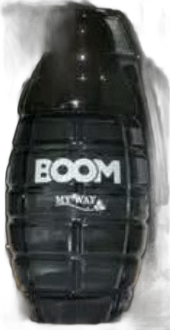
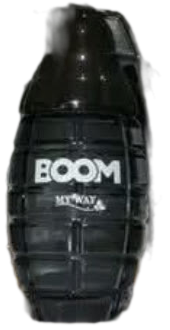
Motion: clean Secret Garden and BOOM cutouts, remove date stamps from Vera photo
Adds a Secret Garden cutout without the Tender bottle in front of it,
an edge-cleaned BOOM, and removes the batch/date prints from the Vera
and Cleopatra labels. Facts sheet: men's labels only where the flyers
support them, Tender kept gender-neutral, account disclaimer for the
end card.

Claude-Session: https://claude.ai/code/session_01D8gAQEBp7D9VgwXuuqKHyz

diff --git a/motion/FACTS.md b/motion/FACTS.md
@@ -33,6 +33,9 @@ price-free cutouts and photos listed below instead.
    `Cleopatra` hair styling cream (`كليوباترا للتطويل`).
    Flyer caption for Vera, usable as a product description: `جل الصبار فيرا لجميع انواع البشره ينظف و يرطب و ينقي البشرة`.
    Name of the men's set on the published site: `الطقم الرجالي: بوم وإسنشيال وساعة`.
+   Men's: ELITE and Cavalier appear under the flyer header `عرض برفانات رجالي`; BOOM is in the men's set — so these three may be
+   labelled `برفانات رجالي`. Tender's gender is **not** stated anywhere: show it under the catalog umbrella `عطور رجالي وحريمي`
+   only, never under `برفانات حريمي`, and don't put a scent description directly under its name.
 3. **The published site** `index.html` — brand and approved copy, below.
 
 mywayeg.net itself did not resolve from the build machine (DNS failure), so nothing was taken from it directly.
@@ -47,7 +50,9 @@ mywayeg.net itself did not resolve from the build machine (DNS failure), so noth
   `برفانات وعناية ومنتجات للبيت من ماي واي.` · `ابعتيلي اسم المنتج أو صورته على واتساب`
 - New lines approved for the video: `اسألي عن السعر على واتساب` · `شوفي الكتالوج على واتساب` (she has a WhatsApp catalog).
   Short connective phrases that make no factual claim are fine (`وكمان…`, `تشكيلة لكل البيت`, `اختاري اللي يناسبك`).
-- Disclaimer (keep its meaning if the company name is shown prominently): `موقع مستقل لعضوة في ماي واي مصر، وليس الموقع الرسمي للشركة`
+- Disclaimer from the site footer: `موقع مستقل لعضوة في ماي واي مصر، وليس الموقع الرسمي للشركة`. The video's end card carries
+  the same meaning adapted to an account: `حساب مستقل لعضوة في ماي واي مصر، وليس الحساب الرسمي للشركة` (small, ≥ 44 px, muted).
+  Keep the company name low-key elsewhere: no `من شركة ماي واي مصر` line.
 - WhatsApp number: **unknown**. Never show a number. CTA = WhatsApp icon + text only.
 - Website URL: not verified live. Do not show a URL.
 
@@ -57,12 +62,16 @@ mywayeg.net itself did not resolve from the build machine (DNS failure), so noth
 - Fonts (vendored in `motion/fonts/`, all SIL OFL): El Messiri (display), Tajawal (body, 400–900), Lalezar (bold display)
 
 ## Images you may use (all price-free)
-- **Product cutouts** (`motion/cutouts/`, transparent PNG cut from the flyers; small, max ~420 px tall, so do not scale past ~2.2×):
-  `tender.png` (Tender) · `october-pair.png` (Tender in front of Secret Garden) · `elite.png` · `cavalier.png` ·
-  `men312-pair.png` (Elite + Cavalier) · `boom.png` (dark backgrounds only — faint halo) · `boom-gel.png` ·
-  `essential-box.png` (the watch's edge shows on its right)
+- **Product cutouts** (`motion/cutouts/`, transparent PNG cut from the flyers; small, max ~420 px tall, so do not scale past ~2.0×):
+  `tender.png` (Tender) · `elite.png` · `cavalier.png` · `men312-pair.png` (Elite + Cavalier) · `boom.png` (edge-cleaned) ·
+  `boom-gel.png` · `essential-box.png` (the watch's edge shows on its right) ·
+  `secret-garden.png` (whole bottle; its lower-left quarter was hidden behind Tender in the flyer and is reconstructed — keep it ≤ 1.3×
+  or partly overlapped by a foreground element) · `secret-garden-top.png` (cap to brand label only, fades out at the bottom — clean;
+  made for a bottle rising out of a plinth/box) ·
+  `october-pair.png` (Tender in front of Secret Garden — **never** use it under home-product copy; it implies Tender is a home product)
 - **Product photos** (`motion/photos/`):
-  `vera-cleopatra.jpg` (848×752, real phone photo of the Vera aloe gel and the Cleopatra jar on a beige wall — caption removed) ·
+  `vera-cleopatra.jpg` (848×752, real phone photo of the Vera aloe gel and the Cleopatra jar on a beige wall — price caption
+  removed, batch/date stamps on both labels removed) ·
   `menset-clean.png` (1002×340, the men's set — BOOM perfume, BOOM cream gel, Essential spray, Essential tube, Essential box,
   watch — under a gold `MY WAY` heading, edges fade to transparent; made for dark scenes)
 - **Mood photos** (`assets/hero.jpg`, `cat-women.jpg`, `cat-men.jpg`, `cat-care.jpg`, `cat-home.jpg`, `work.jpg`): generic,
